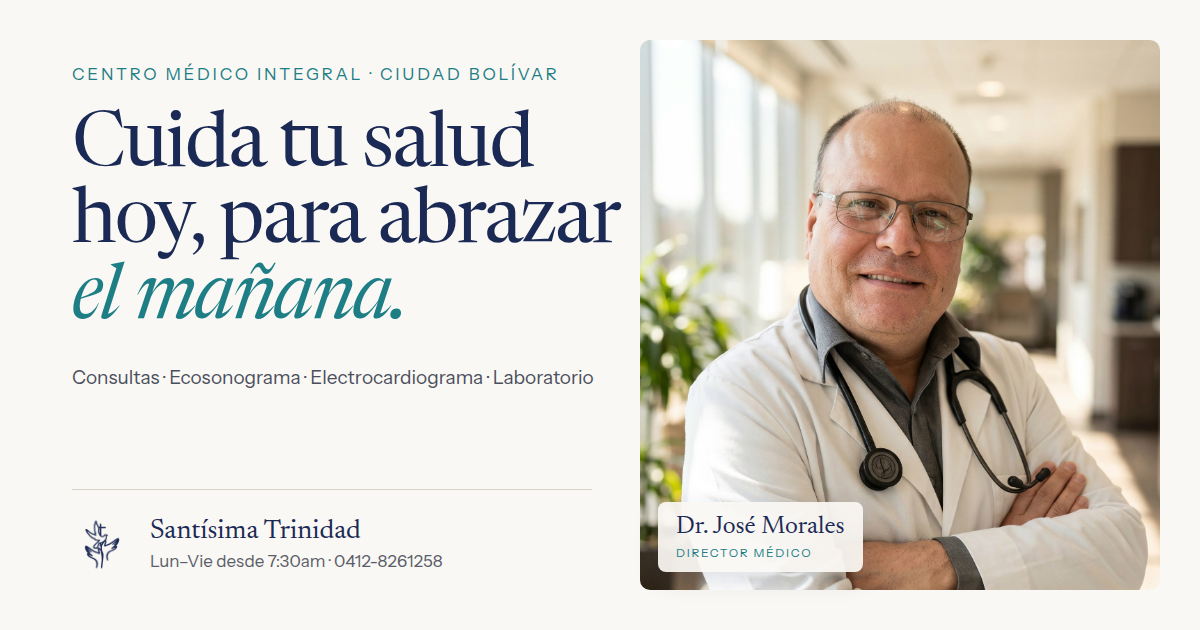
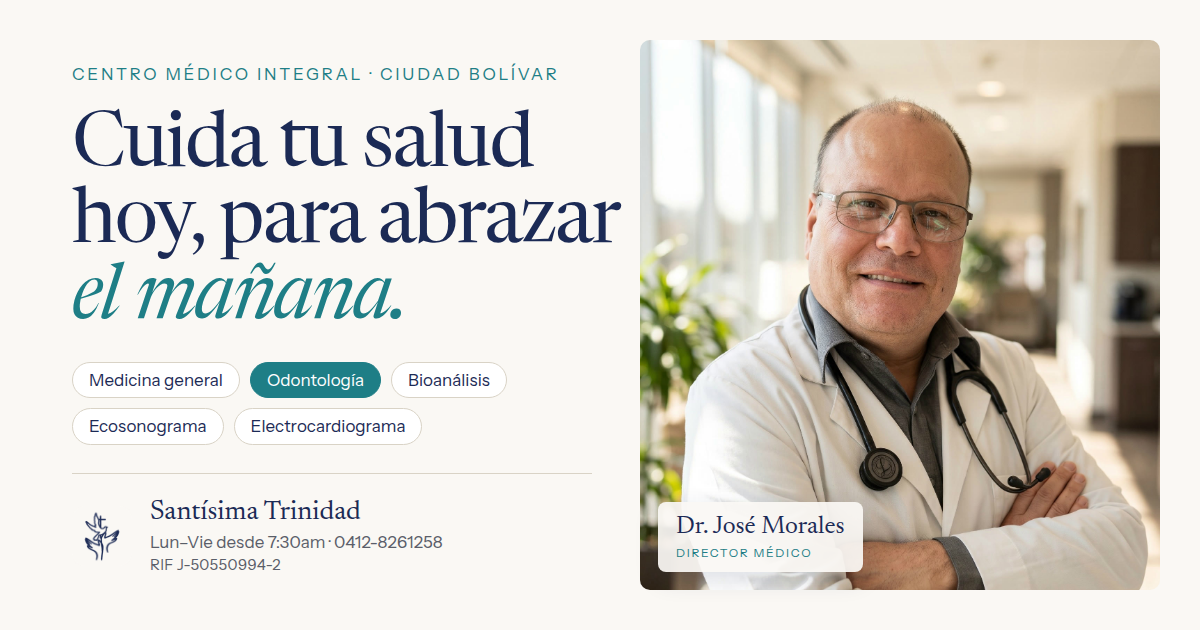
Share image: add Odontología and the RIF
- Services shown as chips: Medicina general, Odontología (highlighted),
  Bioanálisis, Ecosonograma, Electrocardiograma
- RIF J-50550994-2 under the hours and phone
- Alt text and site description mention odontología and bioanálisis

Changed region(s): [[0.0617, 0.7841, 0.37, 0.9048], [0.0617, 0.573, 0.4933, 0.6333], [0.0617, 0.6635, 0.3392, 0.6937]]

diff --git a/assets/brand/og.html b/assets/brand/og.html
@@ -7,11 +7,14 @@ html,body{margin:0}
 .eyebrow{font-size:17px;letter-spacing:.16em;color:#1e7e86}
 h1{margin:26px 0 0;font-family:'Newsreader',serif;font-weight:400;font-size:76px;line-height:1;letter-spacing:-.025em}
 h1 i{color:#1e7e86}
-.services{margin-top:28px;font-size:19px;white-space:nowrap;color:#4a4f5c}
+.services{margin:24px 0 0;padding:0;list-style:none;display:flex;flex-wrap:wrap;gap:10px;max-width:530px}
+.services li{font-size:17px;line-height:1.2;color:#1b2a55;background:#fff;border:1px solid #d9d3c6;border-radius:999px;padding:7px 16px}
+.services li.featured{background:#1e7e86;border-color:#1e7e86;color:#fff}
 .foot{margin-top:auto;display:flex;align-items:center;gap:18px;padding-top:24px;border-top:1px solid #d9d3c6;margin-right:48px}
 .foot img{width:60px;height:60px}
 .name{font-family:'Newsreader',serif;font-size:27px;line-height:1.1}
 .meta{font-size:17px;color:#5a5e69;margin-top:4px}
+.rif{font-size:15px;color:#5a5e69;margin-top:3px;letter-spacing:.02em}
 .photo{padding:40px 40px 40px 0;height:630px;box-sizing:border-box;position:relative}
 .tag{position:absolute;left:18px;bottom:58px;background:rgba(250,248,244,.93);border-radius:8px;padding:12px 18px;box-shadow:0 8px 24px rgba(27,42,85,.14)}
 .tag b{display:block;font-family:'Newsreader',serif;font-weight:400;font-size:25px;line-height:1.1;color:#1b2a55}
@@ -22,10 +25,10 @@ h1 i{color:#1e7e86}
   <div class="copy">
     <div class="eyebrow">CENTRO MÉDICO INTEGRAL · CIUDAD BOLÍVAR</div>
     <h1>Cuida tu salud hoy, para abrazar <i>el mañana.</i></h1>
-    <div class="services">Consultas · Ecosonograma · Electrocardiograma · Laboratorio</div>
+    <ul class="services"><li>Medicina general</li><li class="featured">Odontología</li><li>Bioanálisis</li><li>Ecosonograma</li><li>Electrocardiograma</li></ul>
     <div class="foot">
       <img src="icon.png" alt="">
-      <div><div class="name">Santísima Trinidad</div><div class="meta">Lun–Vie desde 7:30am · 0412-8261258</div></div>
+      <div><div class="name">Santísima Trinidad</div><div class="meta">Lun–Vie desde 7:30am · 0412-8261258</div><div class="rif">RIF J-50550994-2</div></div>
     </div>
   </div>
   <div class="photo"><img src="../../public/images/doctor.jpg" alt=""><div class="tag"><b>Dr. José Morales</b><span>DIRECTOR MÉDICO</span></div></div>

diff --git a/src/app/layout.tsx b/src/app/layout.tsx
@@ -32,7 +32,7 @@ const siteUrl =
 
 const title = "Centro Médico Integral Santísima Trinidad · Ciudad Bolívar";
 const description =
-  "Consulta médica, ecosonograma, electrocardiograma y laboratorio clínico bajo un mismo techo en Ciudad Bolívar. Agenda por WhatsApp.";
+  "Medicina general, odontología, bioanálisis, ecosonograma y electrocardiograma bajo un mismo techo en Ciudad Bolívar. Agenda por WhatsApp.";
 
 // Icons and share images come from the file conventions in this folder:
 // icon.svg, apple-icon.png, opengraph-image.png, twitter-image.png (sources in assets/brand/).
